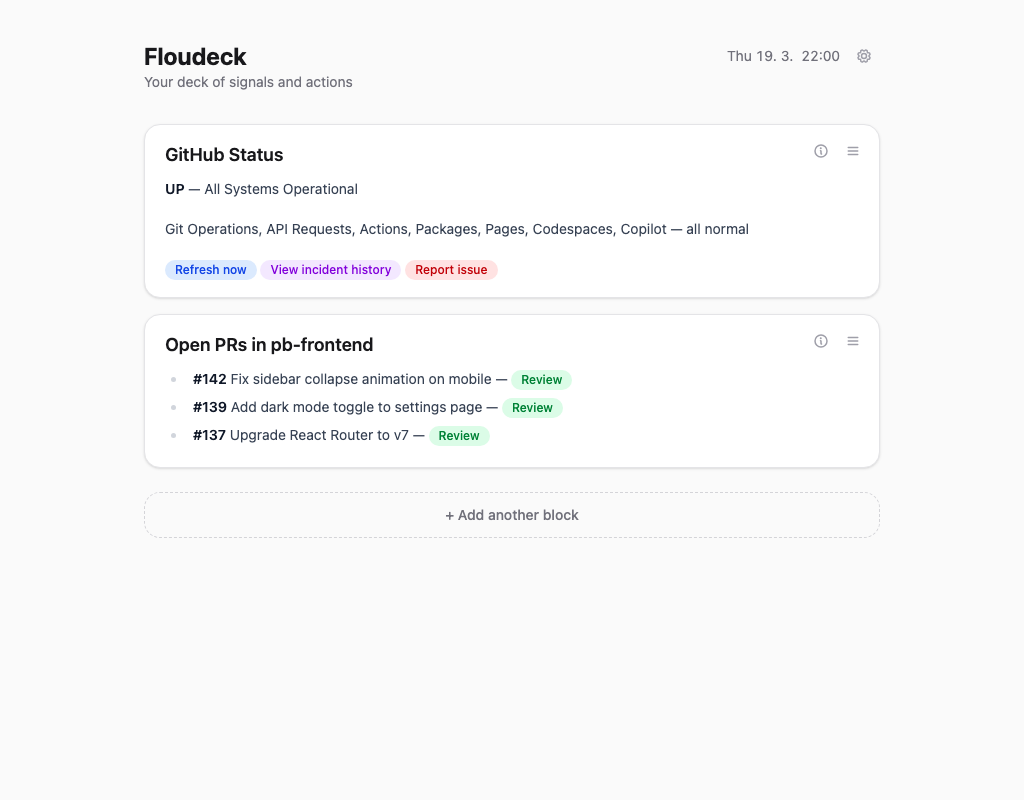
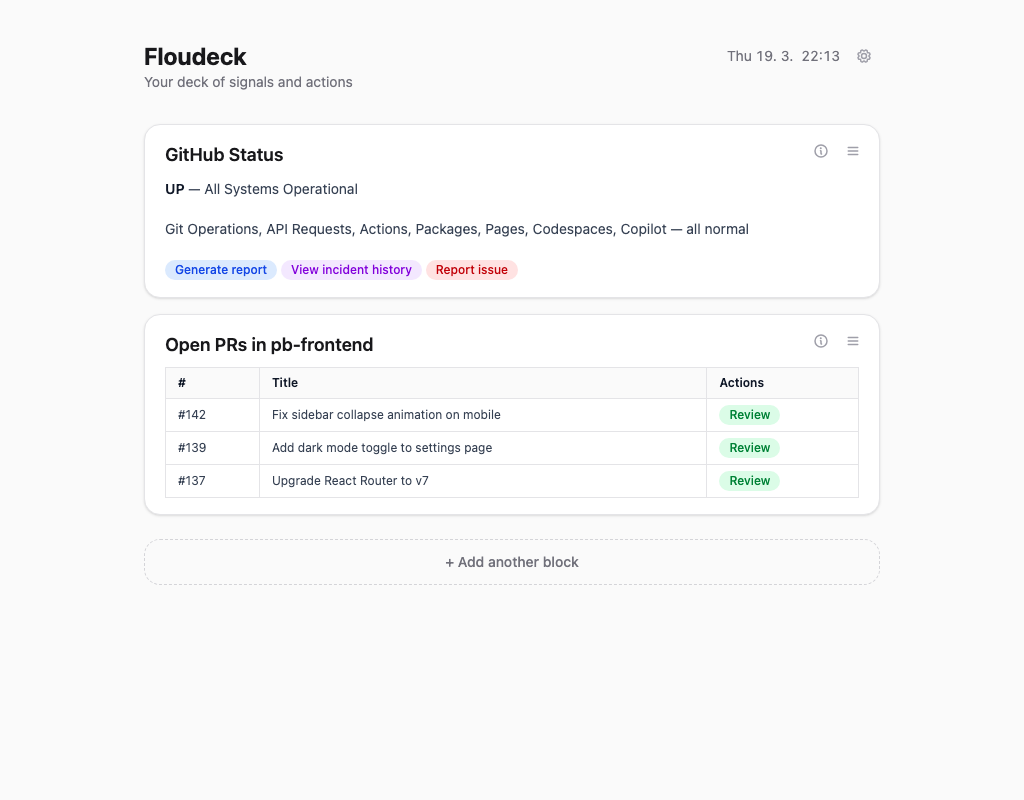
Fix color tags in markdown tables by escaping pipe
The | character in [Label|color] was parsed as a table cell delimiter.
Escaped pipes (\|) work correctly — marked delivers the unescaped text
to the link renderer. Updated system prompts to instruct Claude to
escape pipes in tables, added test coverage.

diff --git a/src/prompts.ts b/src/prompts.ts
@@ -49,6 +49,7 @@ With optional color tag (pipe-separated before closing bracket):
 
 Color palette: red, orange, yellow, green, blue, purple. Default (no tag): green.
 Color guidance: red = destructive/dangerous, orange = caution, green = safe/constructive, blue = informational/navigation, purple = advanced/settings.
+IMPORTANT: Inside markdown tables, escape the pipe as \\| so it is not parsed as a cell delimiter: [Label\\|green](/action/...)
 
 The color tag syntax also works on regular links: [Open docs|blue](https://example.com) renders as colored underlined text. Action links render as colored pills.
 
@@ -85,6 +86,7 @@ With optional color tag (pipe-separated before closing bracket):
 [Label|red](/action/{block-uuid}/{action-name}?optional=query&params)
 
 Color palette: red, orange, yellow, green, blue, purple. Default (no tag): green.
+IMPORTANT: Inside markdown tables, escape the pipe as \\| so it is not parsed as a cell delimiter: [Label\\|green](/action/...)
 Your block UUID is provided in the context. Use it when constructing action links.`;
 
 export function composeActionPrompt(

diff --git a/scripts/screenshot.ts b/scripts/screenshot.ts
@@ -39,9 +39,9 @@ Git Operations, API Requests, Actions, Packages, Pages, Codespaces, Copilot — 
 
 | # | Title | Actions |
 |---|-------|---------|
-| #142 | Fix sidebar collapse animation on mobile | [Review|green](/action/BLOCK_UUID/review?pr=142) |
-| #139 | Add dark mode toggle to settings page | [Review|green](/action/BLOCK_UUID/review?pr=139) | 
-| #137 | Upgrade React Router to v7 | [Review|green](/action/BLOCK_UUID/review?pr=137) |`,
+| #142 | Fix sidebar collapse animation on mobile | [Review\\|green](/action/BLOCK_UUID/review?pr=142) |
+| #139 | Add dark mode toggle to settings page | [Review\\|green](/action/BLOCK_UUID/review?pr=139) |
+| #137 | Upgrade React Router to v7 | [Review\\|green](/action/BLOCK_UUID/review?pr=137) |`,
   },
 ];
 

diff --git a/src/client/lib/markdown.test.ts b/src/client/lib/markdown.test.ts
@@ -49,6 +49,16 @@ describe("renderMarkdown", () => {
     expect(result).toContain("text-green-700");
   });
 
+  test("renders action links with escaped pipe in table cells", () => {
+    const md =
+      "| Action |\n|---|\n| [Review\\|green](/action/abc-123/review) |";
+    const result = renderMarkdown(md);
+    expect(result).toContain("rounded-full");
+    expect(result).toContain("bg-green-100");
+    expect(result).toContain("Review");
+    expect(result).not.toContain("|green");
+  });
+
   test("renders regular links with color tag as colored text", () => {
     const result = renderMarkdown("[Open docs|blue](https://example.com/docs)");
     expect(result).toContain("text-blue-600");
